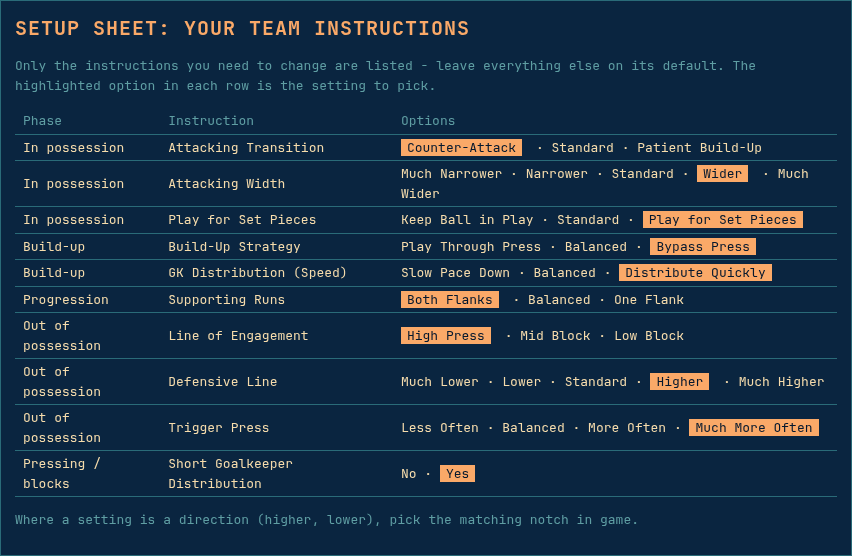
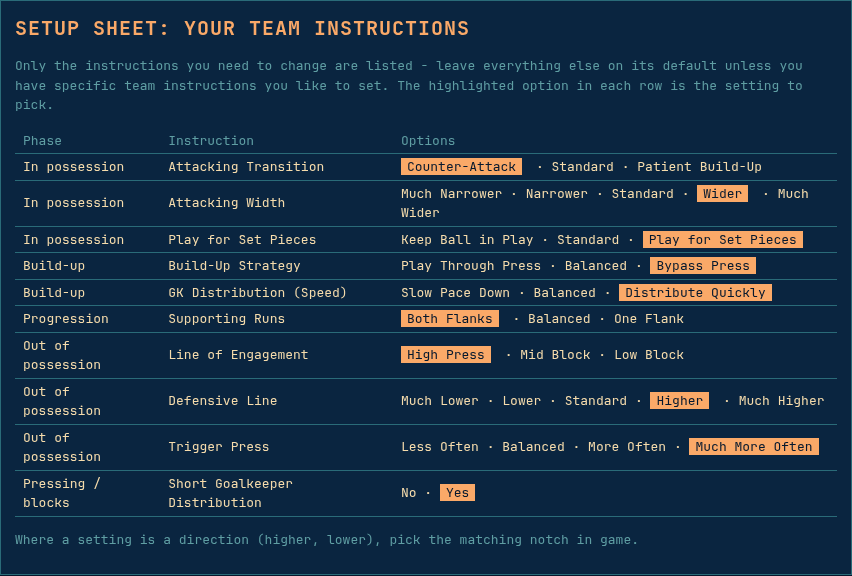
Setup sheet note: keep your own preferred instructions

diff --git a/index.html b/index.html
@@ -488,7 +488,7 @@ function render(){
   </div>
   <div class="box">
     <h3 class="big" style="font-size:20px">SETUP SHEET: YOUR TEAM INSTRUCTIONS</h3>
-    <p class="why">Only the instructions you need to change are listed - leave everything else on its default. The highlighted option in each row is the setting to pick.</p>
+    <p class="why">Only the instructions you need to change are listed - leave everything else on its default unless you have specific team instructions you like to set. The highlighted option in each row is the setting to pick.</p>
     <table><tr><th>Phase</th><th>Instruction</th><th>Options</th></tr>
       ${TI.filter(t=>r.set[t.name]).map(t=>{const s=r.set[t.name];return `<tr><td>${t.phase}</td><td>${t.name}</td>
         <td>${t.opts.map(x=>x===s?`<span class="tag">${x}</span>`:x).join(' · ')}</td></tr>`;}).join('')}</table>
